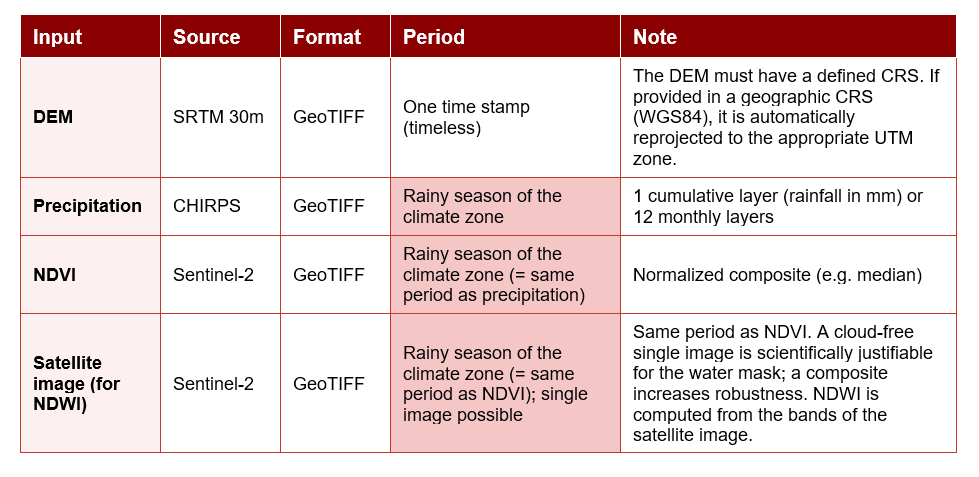
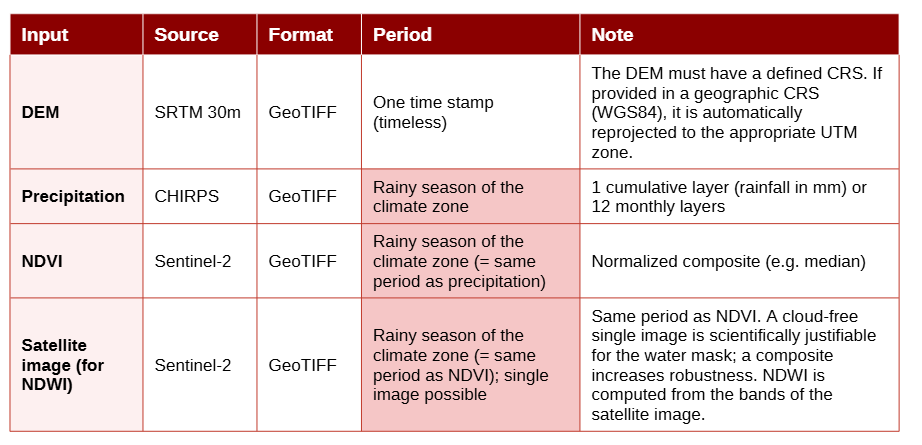
change_readme

Changed region(s): [[0.0, 0.0292, 1.0, 0.9933]]

diff --git a/README.md b/README.md
@@ -43,10 +43,10 @@ depends on the climate zone of the study area and should correspond to the
 respective rainy season (see Table 2). The package automatically prints the 
 recommended period at each call of `calc_r_factor()`.
 
-![Table 1](man/figures/table_requirements.png)
+<img src="man/figures/table_requirements.png" width="600"/>
 
 ## Workflow
-![Workflow](man/figures/workflow.png)
+<img src="man/figures/workflow.png" width="600"/>
 
 ## Water mask to mask out lakes
 `apply_water_mask()` computes the Normalized Difference Water Index (NDWI)
@@ -75,7 +75,7 @@ ndvi_masked <- apply_water_mask(
                )
 ```
 
-![Water Mask](man/figures/water_mask_final.png)
+<img src="man/figures/water_mask_final.png" width="600"/>
 
 
 ## Region-specific Rainfall erosivity calculation (R-factor)
@@ -102,7 +102,7 @@ r_factor <- calc_r_factor(
             )
 ```
 
-![R-Factor](man/figures/r_factor_final.png)
+<img src="man/figures/r_factor_final.png" width="600"/>
 
 ## Calculation of topographic influence on erosion (LS-factor)
 `calc_ls_factor()` computes the RUSLE topographic LS-factor from a digital
@@ -122,7 +122,7 @@ ls_factor <- calc_ls_factor(
              )
 ```
 
-![LS-Factor](man/figures/ls_factor_final.png)
+<img src="man/figures/ls_factor_final.png" width="600"/>
 
 ## Calculation of vegetation cover influence of erosion (C-factor)
 `calc_c_factor()` computes the RUSLE vegetation cover factor (C-factor) from
@@ -146,7 +146,7 @@ c_factor <- calc_c_factor(
             )
 ```
 
-![C-Factor](man/figures/c_factor_final.png)
+<img src="man/figures/c_factor_final.png" width="600"/>
 
 ## Erosion risk map
 `calc_erosion_risk()` combines the R, LS, and C factors into a dimensionless
@@ -170,4 +170,4 @@ result <- calc_erosion_risk(
           )
 ```
 
-![Erosion Risk Index](man/figures/eri_final.png)
+<img src="man/figures/eri_final.png" width="600"/>
